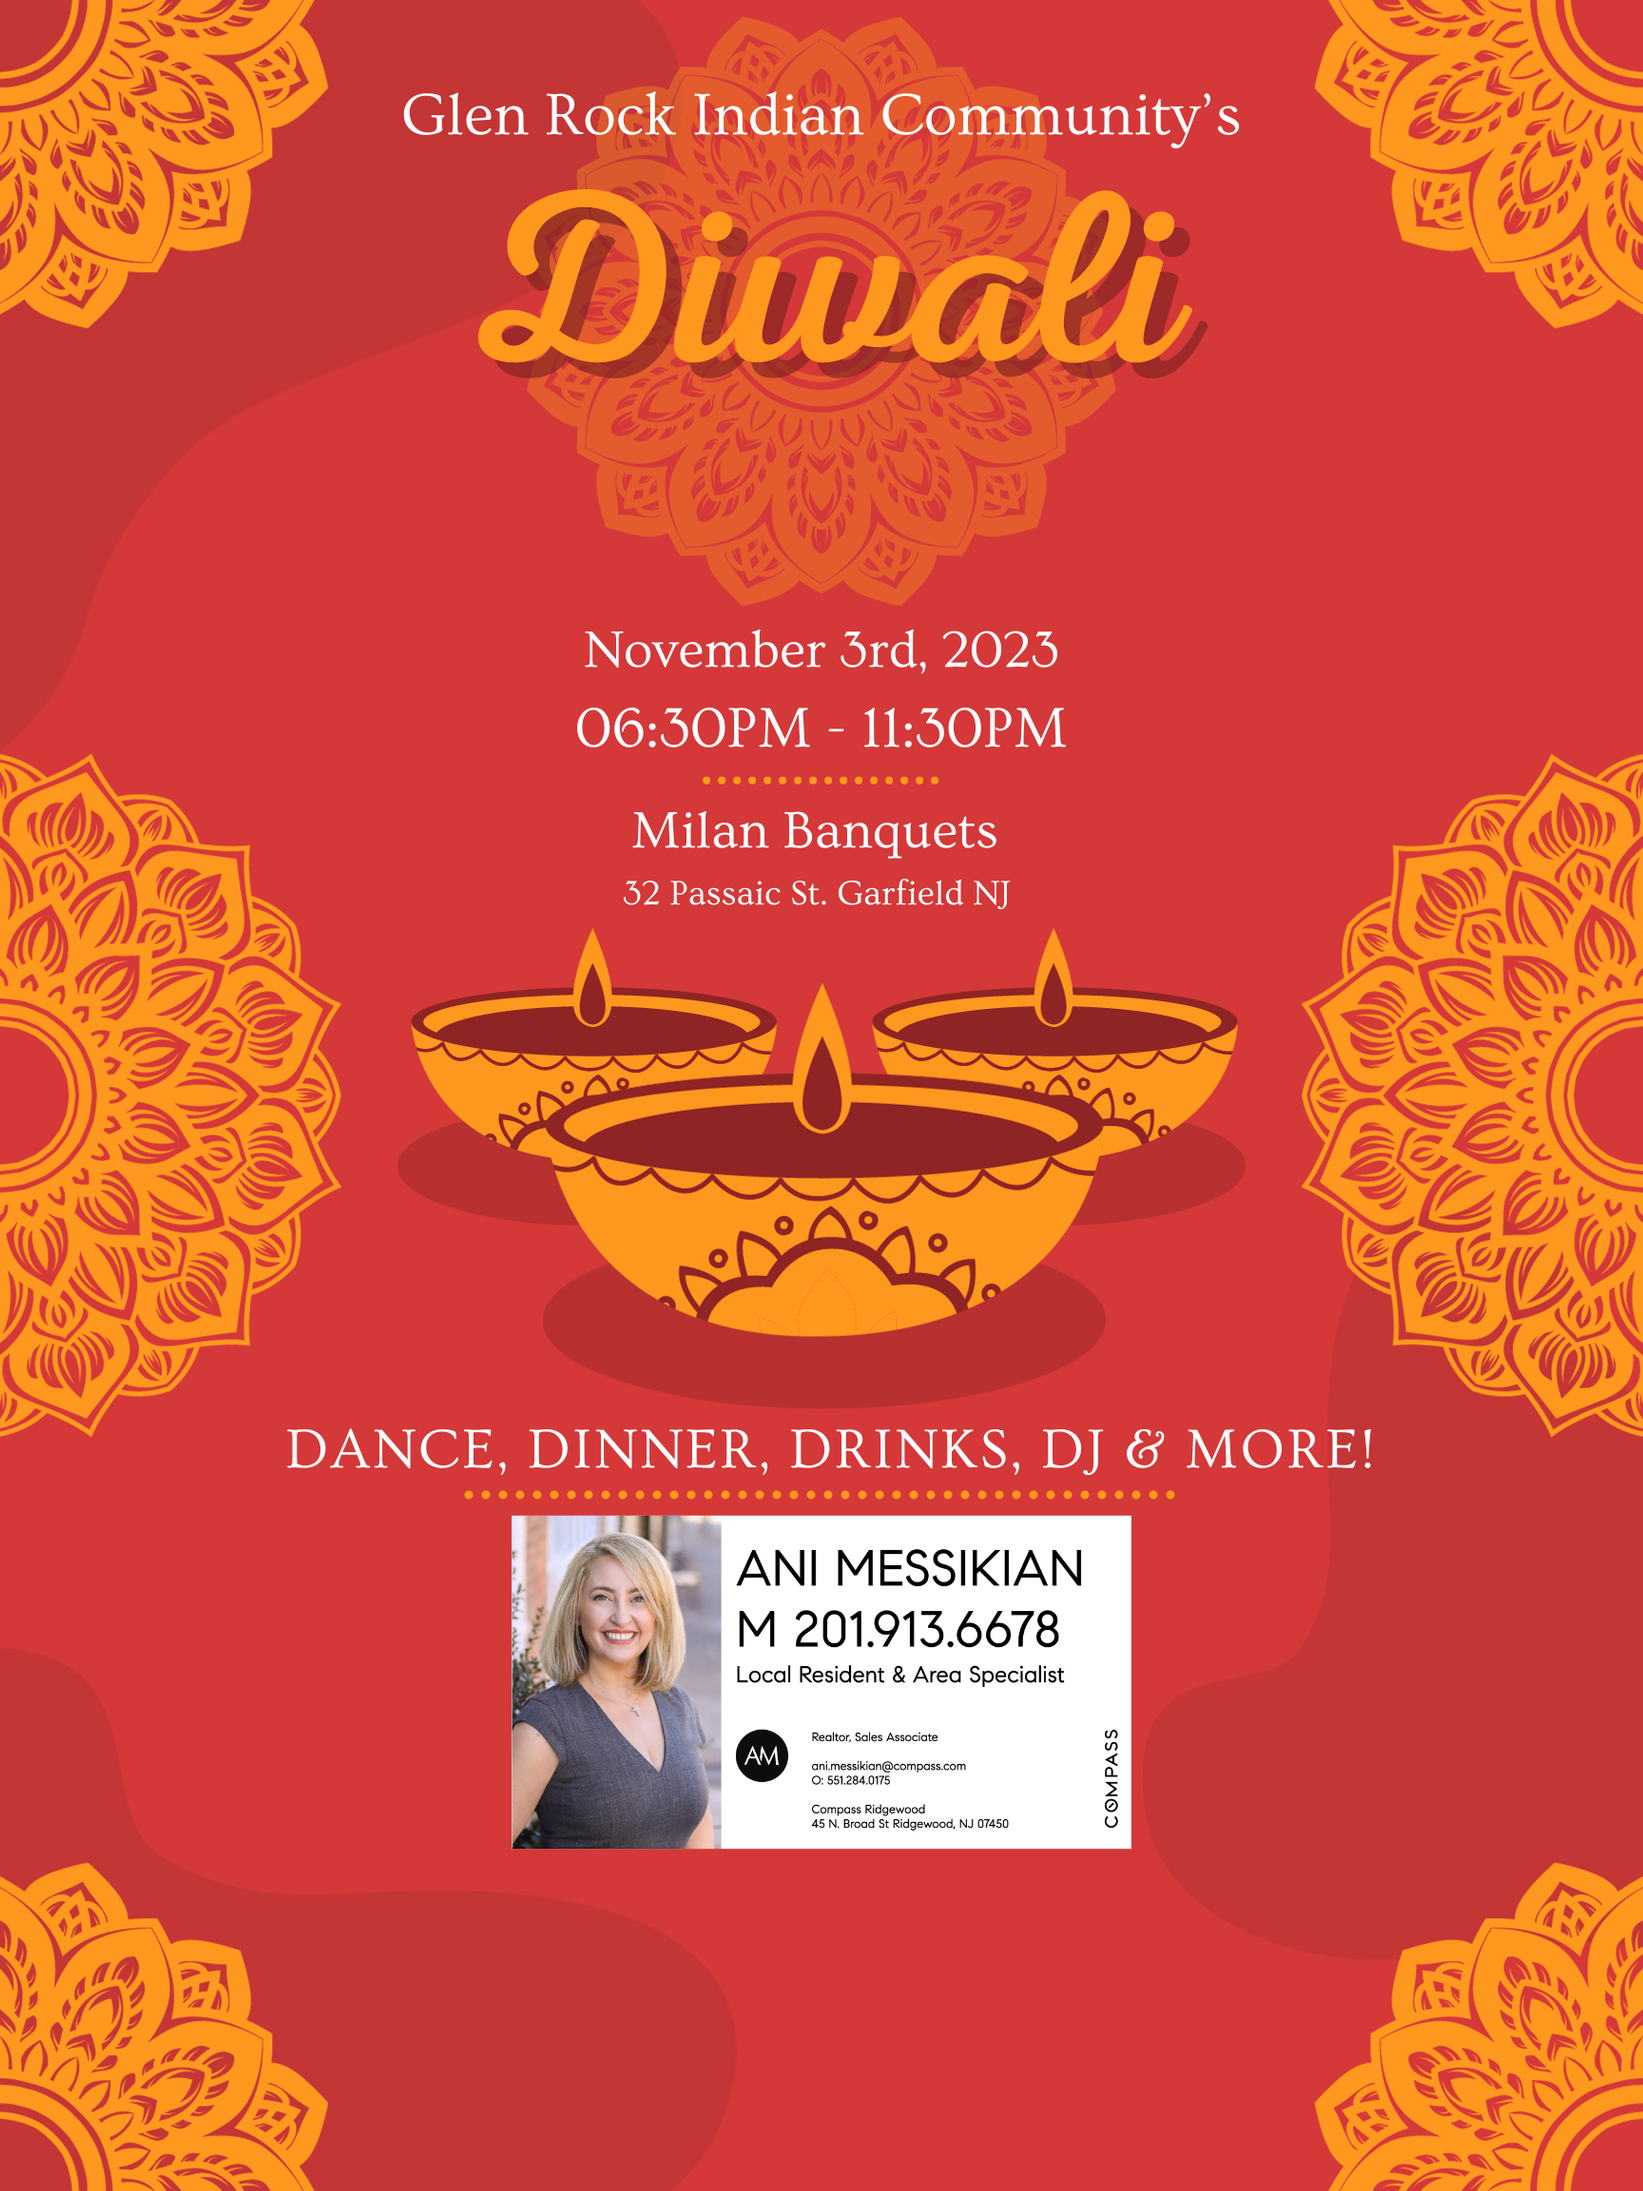
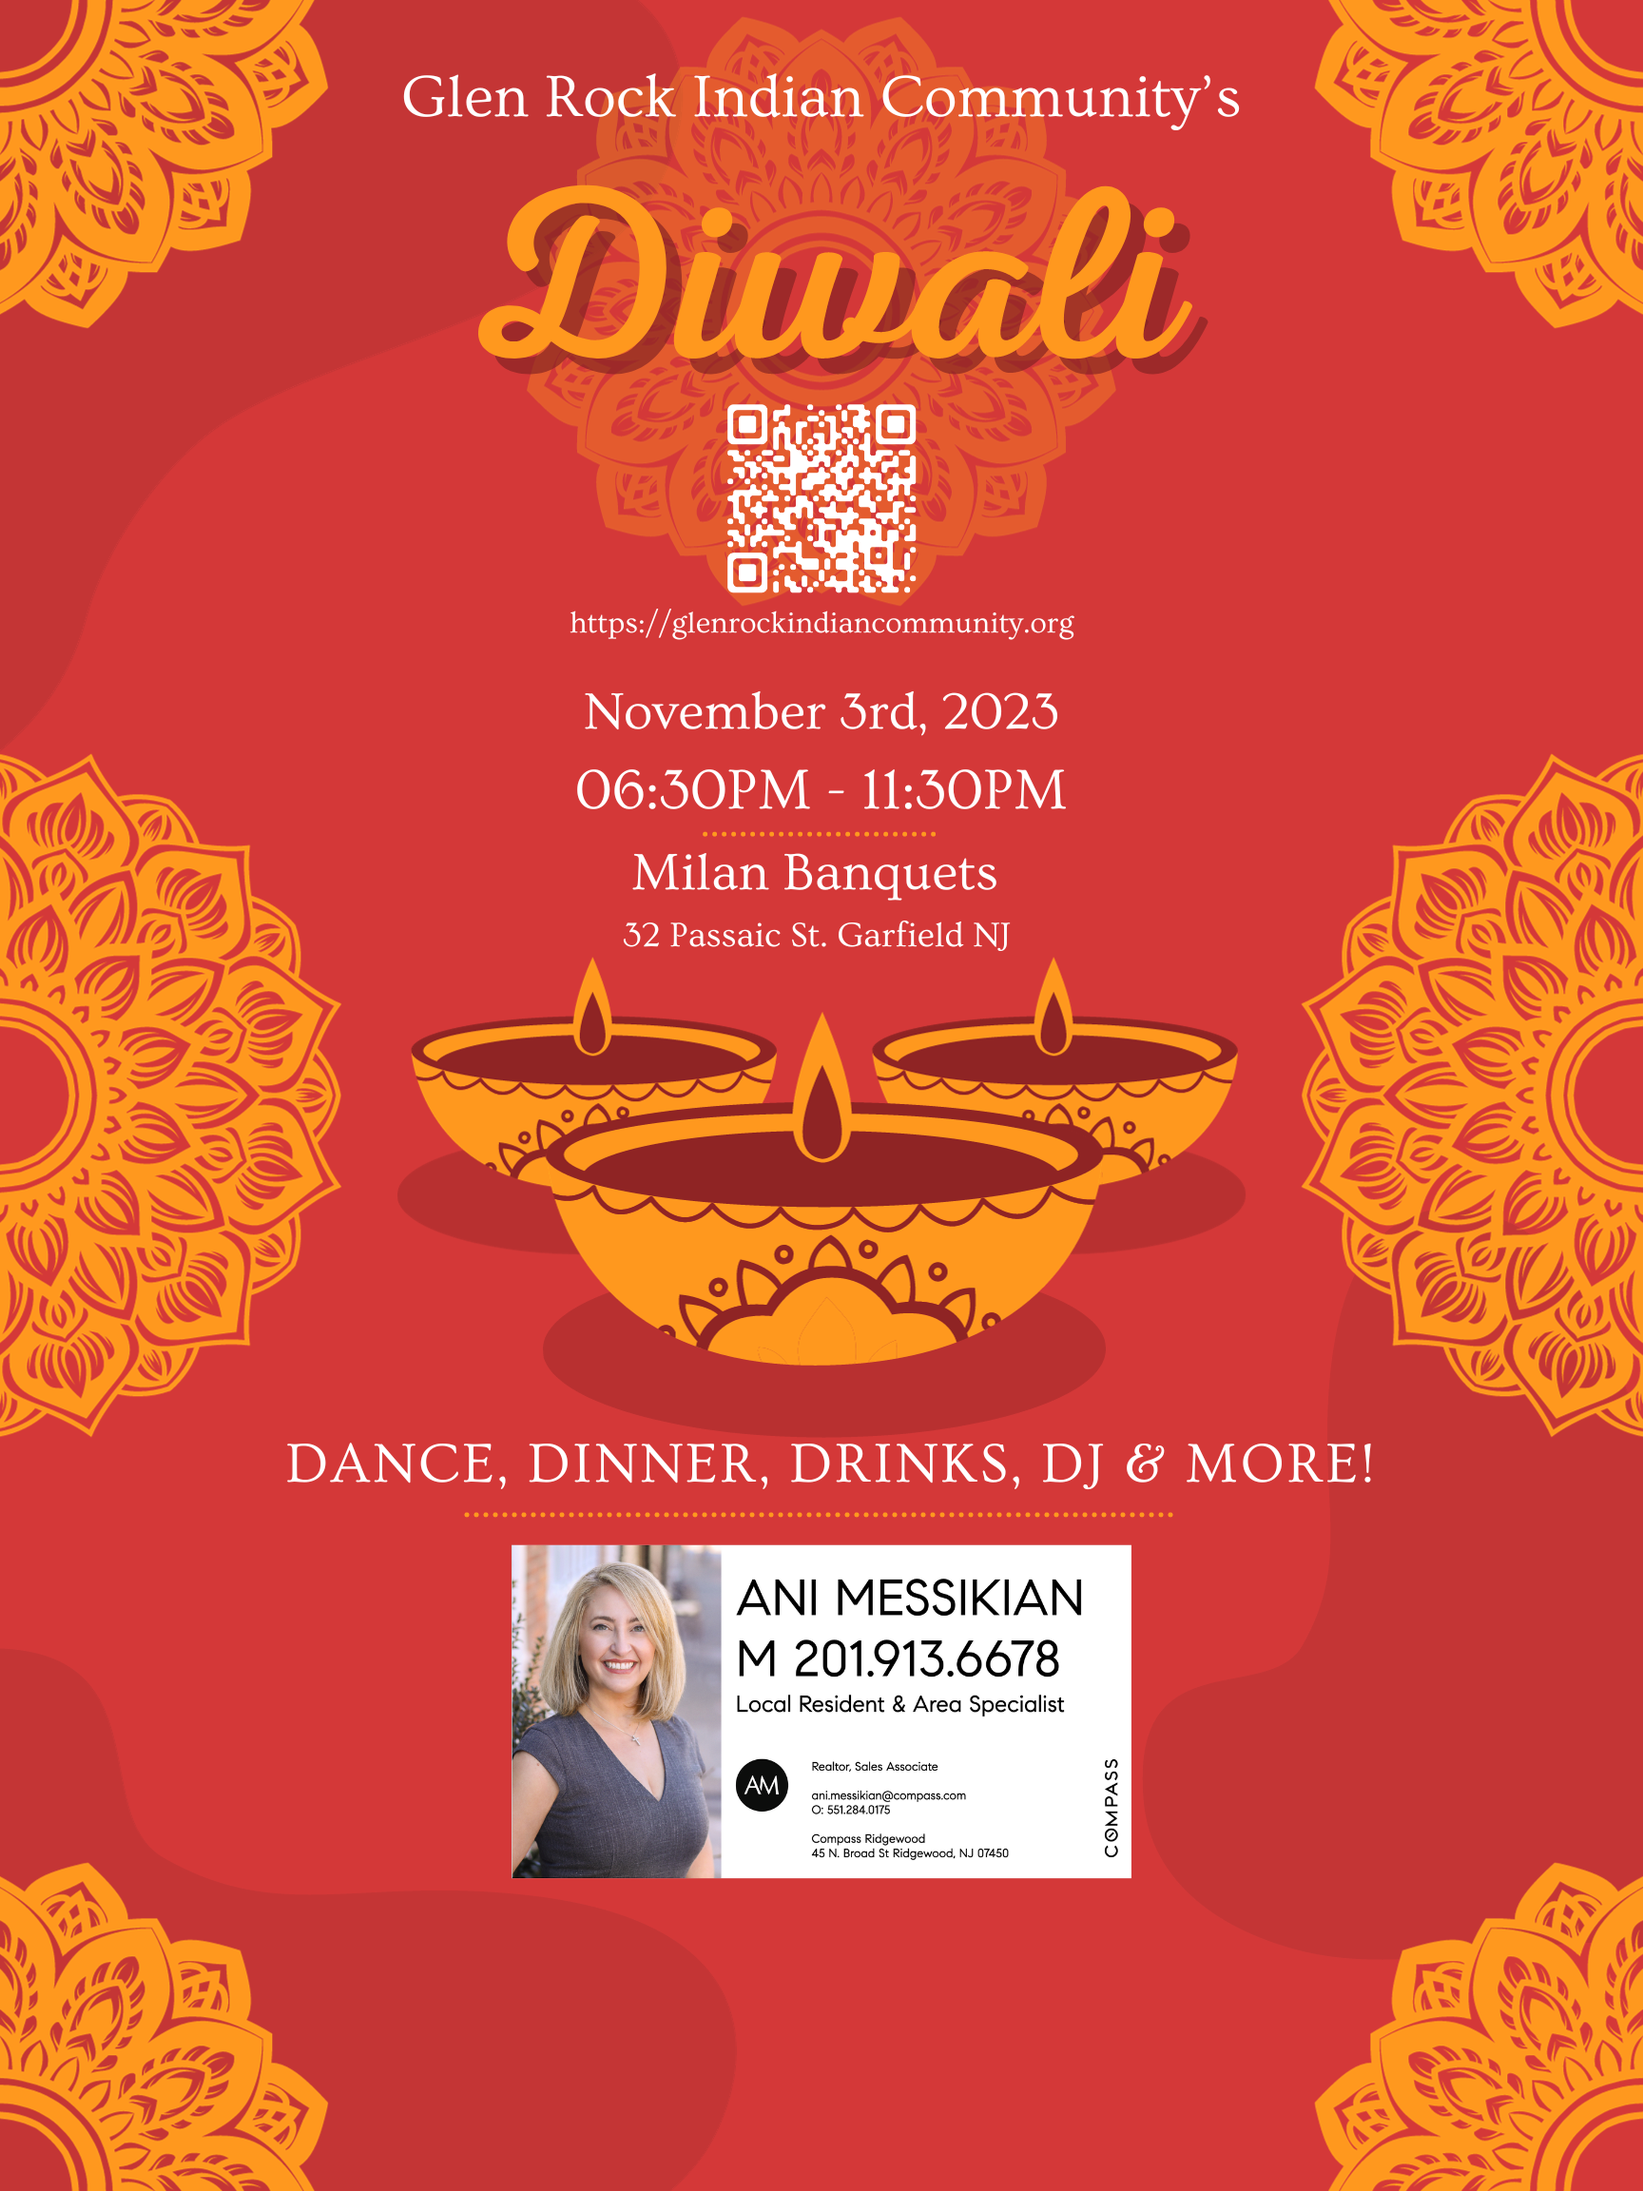
Diwali 2023 registration

diff --git a/_posts/2023-08-01-diwali-registration.md b/_posts/2023-08-01-diwali-registration.md
@@ -1,6 +1,6 @@
 ---
 layout: post
-title:  "Diwali 2023 - Registration"
+title:  "Diwali 2023 - Registrations Open!"
 categories: [ Cultural, Events ]
 image: assets/images/diwali_2023.png
 featured: true
